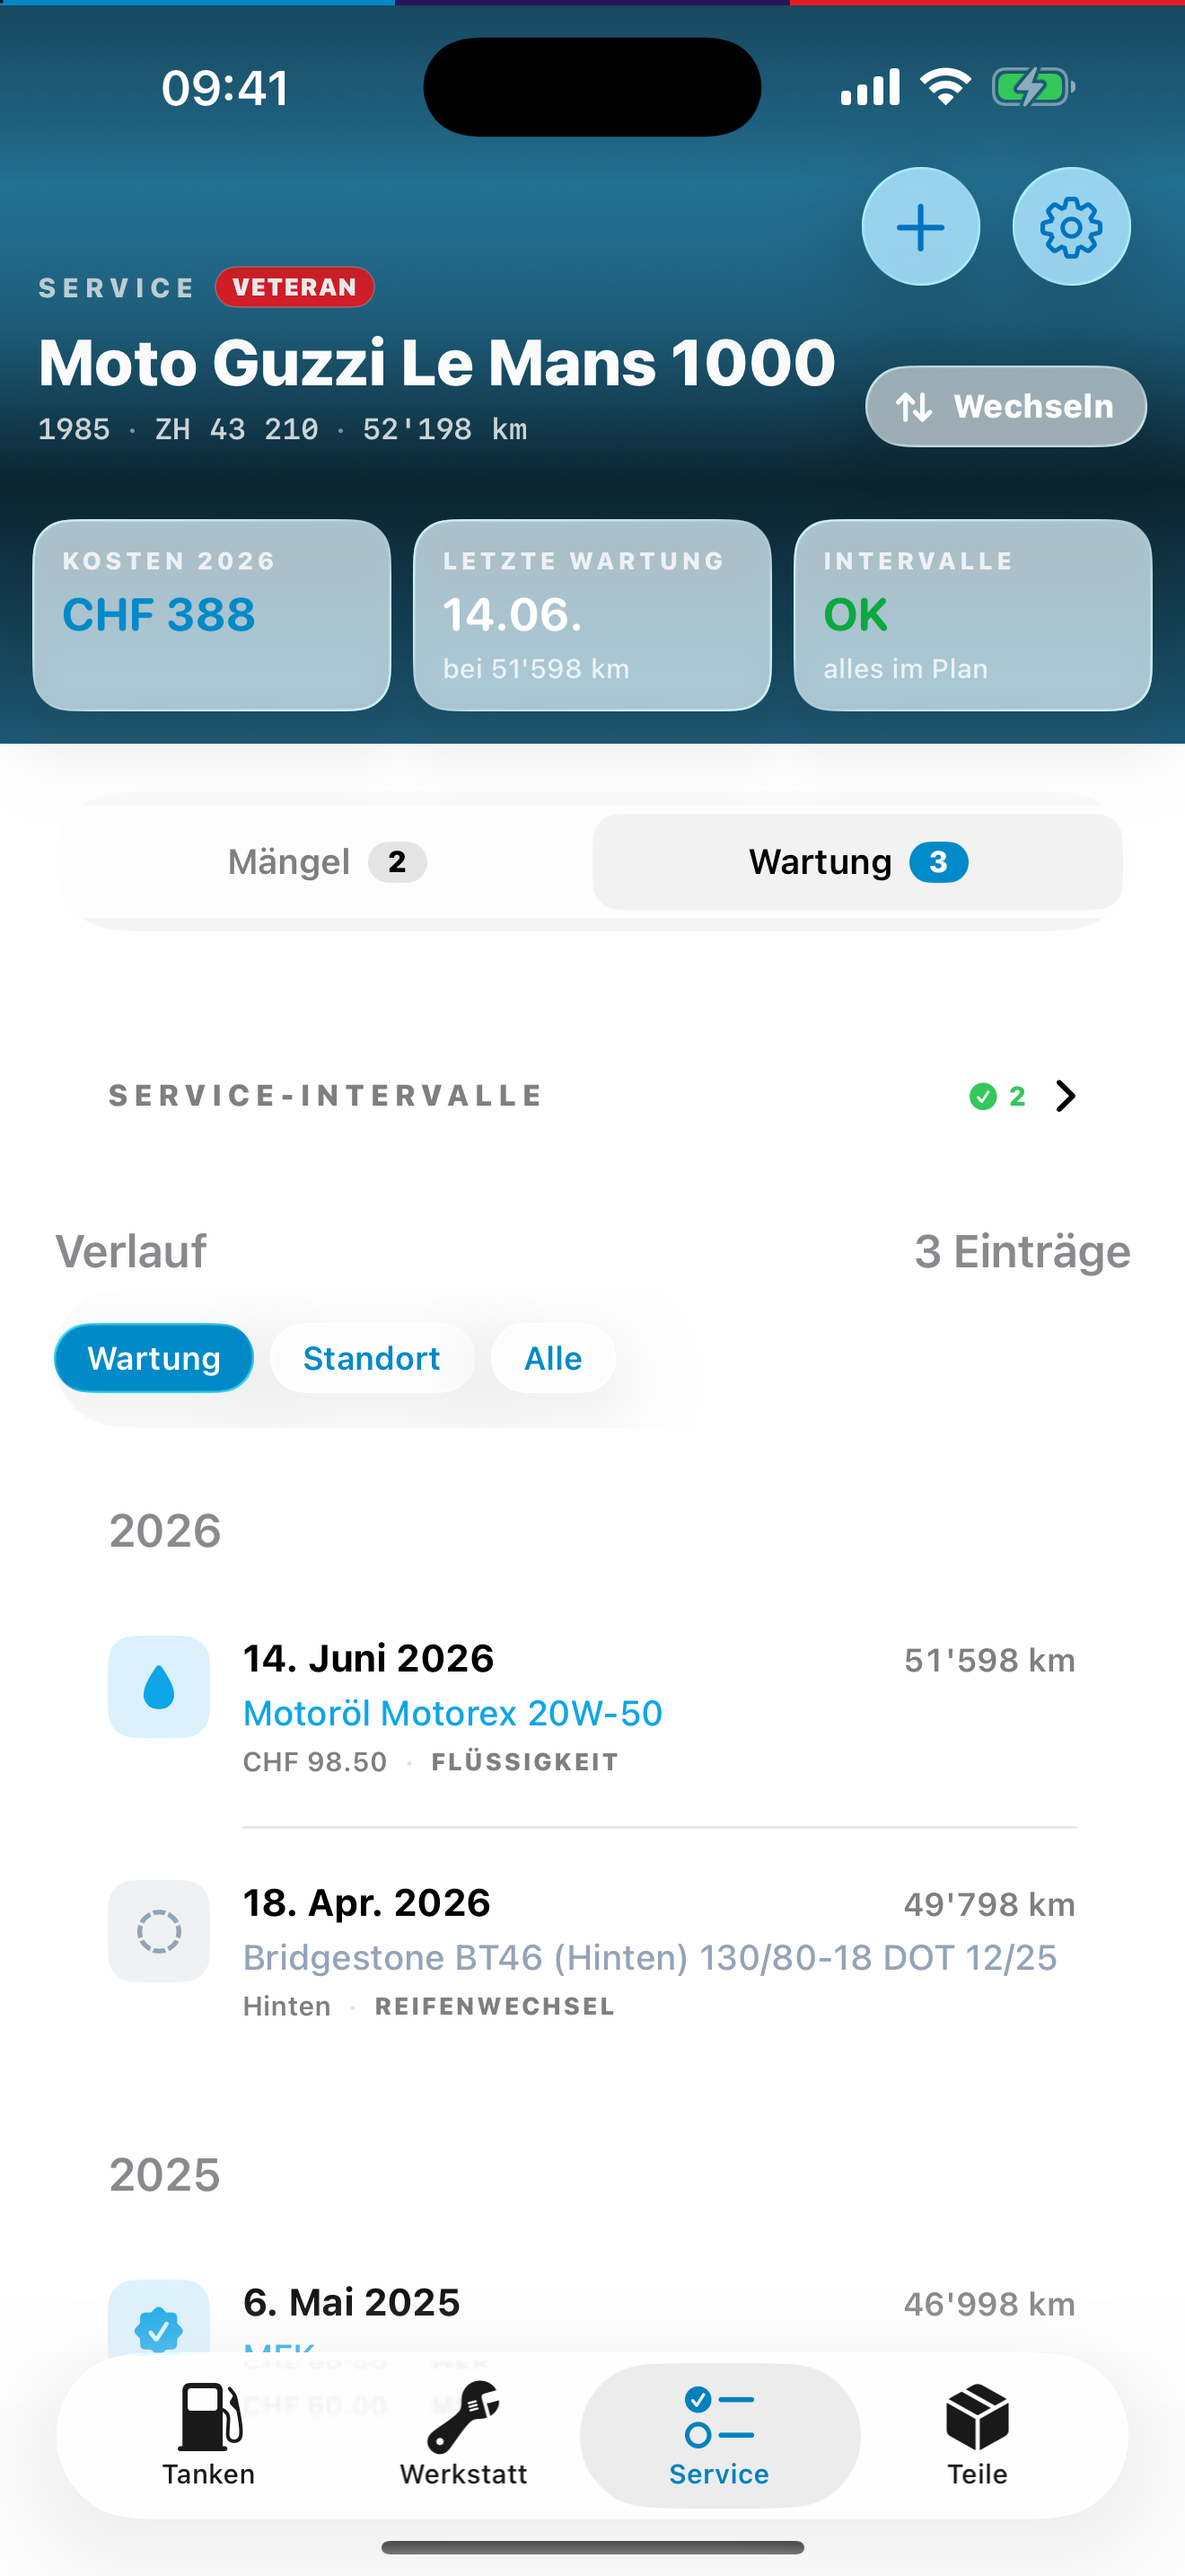
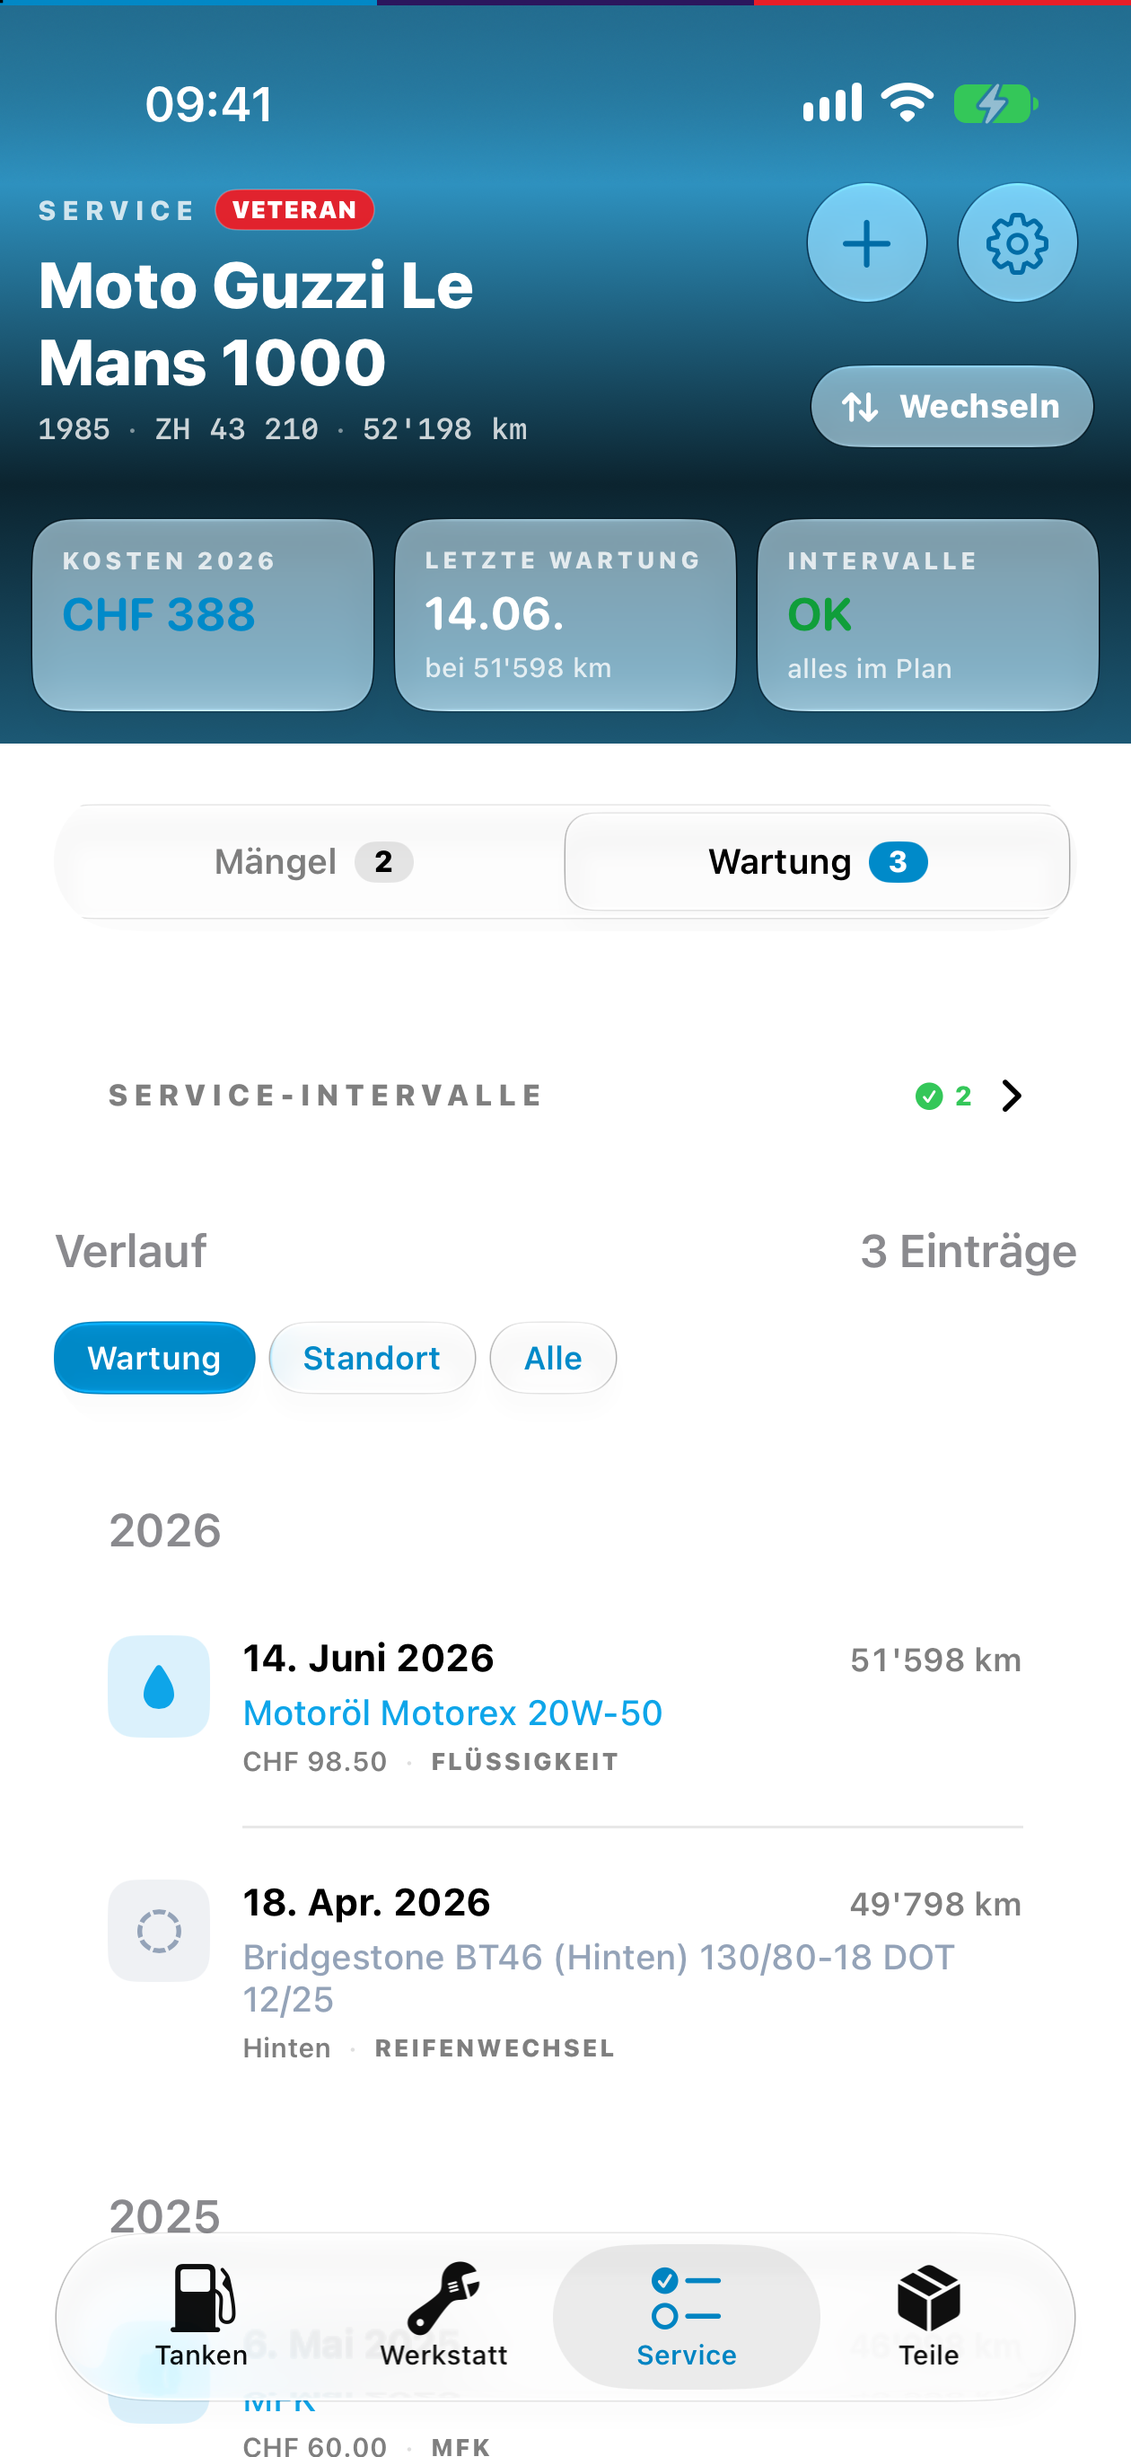
fix: capture iphone screenshots at the accepted 1260x2736 size
Apple's current spec wants 1260x2736 for the top iPhone slot; App Store
Connect rejected 1320x2868 with IMAGE_INCORRECT_DIMENSIONS. Re-captured
the set on an iPhone Air simulator (native 1260x2736) and retuned the
script's tap coordinates for its 420x912 point geometry.

Claude-Session: https://claude.ai/code/session_01WE9Lc4Y1f6rDTcWxFb6ihc

diff --git a/scripts/appstore_assets.py b/scripts/appstore_assets.py
@@ -16,7 +16,7 @@ Source of truth is the repo:
 
     appstore/screenshots/<locale>/<DISPLAY_TYPE>/*.png
         DISPLAY_TYPE is the raw App Store Connect enum value, e.g.
-        APP_IPHONE_67 (6.7"/6.9" iPhone, 1290x2796 or 1320x2868) or
+        APP_IPHONE_67 (top iPhone slot, 1260x2736 — 1320x2868 is REJECTED) or
         APP_IPAD_PRO_3GEN_129 (13" iPad, 2064x2752).
         Files are uploaded in sorted filename order (01-..., 02-..., ...).
 

diff --git a/RELEASING.md b/RELEASING.md
@@ -82,8 +82,8 @@ The store listing lives in the repo and is pushed by
   Regenerate them locally with `scripts/make-screenshots.sh`: it builds the
   app, seeds a throwaway local API with a demo garage
   (`scripts/seed-demo-data.py`), drives the login and all four tabs on an
-  iPhone 17 Pro Max and iPad Pro 13-inch simulator via `idb`, and writes
-  pixel-exact PNGs (1320×2868 / 2064×2752). Review the images, commit.
+  iPhone Air and iPad Pro 13-inch simulator via `idb`, and writes
+  pixel-exact PNGs (1260×2736 / 2064×2752). Review the images, commit.
 
 Two one-time settings, both in the browser:
 
